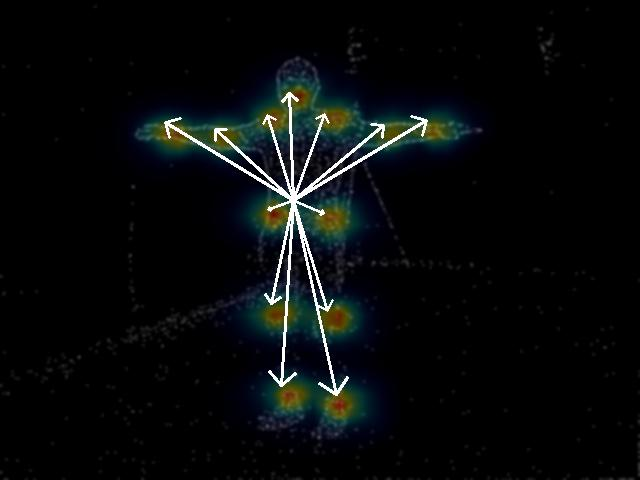
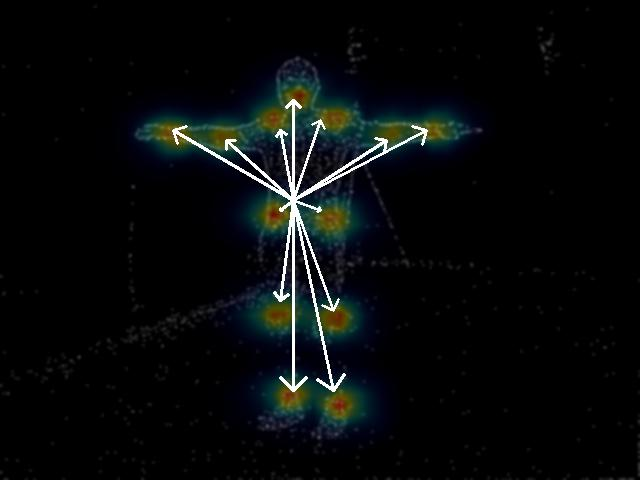
[refactor] refactor the code into smaller helper functions + add asserts to check input tensors size

Changed region(s): [[0.4062, 0.1875, 0.6875, 0.8438], [0.25, 0.25, 0.375, 0.3438], [0.375, 0.3438, 0.4062, 0.375]]

diff --git a/scripts/viz_heads_output.py b/scripts/viz_heads_output.py
@@ -16,8 +16,22 @@ from lib import MoveNet
 from config import cfg as default_cfg
 from pathlib import Path
 from lib.data.data import Data
+from typing import Iterable
+
+def assert_chw(t: torch.Tensor, name: str):
+    assert t.ndim == 3, f"{name} must be a CHW tensor, got {t.ndim} dims (shape {tuple(t.shape)})"
+    assert not t.is_cuda, f"{name} must be on the CPU"
+
+def assert_img(img: torch.Tensor):
+    assert_chw(img, "img")
+    assert img.is_floating_point(), f"img must be a float tensor in [0, 1], not {img.dtype}"
+    assert img.min() >= 0 and img.max() <= 1 + 1e-6, f"img values must be in [0, 1], got [{img.min()}, {img.max()}]"
+
+def assert_even_channels(t: torch.Tensor, name: str):
+    assert t.shape[0] % 2 == 0, f"{name} must have an even number of channels (x, y pairs), not {t.shape[0]}"
 
 def draw_vector(img: torch.Tensor, start_xy, end_xy, color=(255, 255, 255), thickness=1) -> torch.Tensor:
+    assert_img(img)
     canvas = np.ascontiguousarray((img.permute(1, 2, 0).numpy() * 255).astype(np.uint8))  # CHW [0,1] -> HWC uint8
     pt1 = (int(start_xy[0]), int(start_xy[1]))
     pt2 = (int(end_xy[0]), int(end_xy[1]))
@@ -29,7 +43,26 @@ def get_center_pixel_xy(center: torch.Tensor) -> tuple[torch.Tensor, torch.Tenso
     center_x = center.max(dim=-2).values.argmax()
     return center_x, center_y
 
+def get_raw_keypoints_xy(center: torch.Tensor, keypoints_regression: torch.Tensor) -> Iterable[tuple[torch.Tensor, torch.Tensor]]:
+    cx, cy = get_center_pixel_xy(center)
+    keypoints_iterator = zip(keypoints_regression[::2, cy, cx], keypoints_regression[1::2, cy, cx])
+    return keypoints_iterator
+
+def get_absolute_keypoints_xy(center: torch.Tensor, keypoints_regression: torch.Tensor) -> Iterable[tuple[torch.Tensor, torch.Tensor]]:
+    assert center.shape[-2:] == keypoints_regression.shape[-2:], f"Center and keypoints regression tensors must have the same (H, W) shape, not {center.shape[-2:]} and {keypoints_regression.shape[-2:]}"
+    cx, cy = get_center_pixel_xy(center)
+    keypoints = get_raw_keypoints_xy(center, keypoints_regression)
+    for kpt_x, kpt_y in keypoints:
+        kpt_x, kpt_y = cx + int(kpt_x+0.5), cy + int(kpt_y+0.5)  # computing absolute kpt position, rounding towards zero
+        kpt_x = torch.min(torch.max(torch.tensor(0), kpt_x), torch.tensor(center.shape[-1]-1))  # clamping
+        kpt_y = torch.min(torch.max(torch.tensor(0), kpt_y), torch.tensor(center.shape[-2]-1))
+        yield kpt_x, kpt_y
+
 def superimpose_heatmap(img: torch.Tensor, heatmap: torch.Tensor, alpha: float = 0.5) -> torch.Tensor:
+    assert_img(img)
+    assert_chw(heatmap, "heatmap")
+    assert heatmap.min() >= 0 and heatmap.max() <= 1, f"heatmap values must be in [0, 1], got [{heatmap.min()}, {heatmap.max()}]"
+
     hm_one_channel = heatmap.amax(0, keepdim=True)
     hm_resized = F.interpolate(hm_one_channel.unsqueeze(0), size=(img.shape[-2], img.shape[-1]), mode='bilinear', align_corners=False)[0, 0]
     hm_u8 = (hm_resized*255).byte().numpy()
@@ -40,6 +73,10 @@ def superimpose_heatmap(img: torch.Tensor, heatmap: torch.Tensor, alpha: float =
     return (1-blending_mask) * img + blending_mask * hm_colormapped
 
 def superimpose_center_dot(img: torch.Tensor, center: torch.Tensor) -> torch.Tensor:
+    assert_img(img)
+    assert_chw(center, "center")
+    assert center.shape[0] == 1, f"Center tensor must have 1 channel, not {center.shape[0]}"
+
     center_x, center_y = get_center_pixel_xy(center)
     H, W = img.shape[-2:]
     center_dot_overlay = torch.zeros((H, W), dtype=torch.bool)
@@ -62,18 +99,24 @@ def superimpose_center(img: torch.Tensor, center: torch.Tensor, alpha: float = 0
     return out
 
 def superimpose_regression(img: torch.Tensor, center: torch.Tensor, keypoints_regression: torch.Tensor) -> torch.Tensor:
-    center_x, center_y = get_center_pixel_xy(center)
-    keypoints = keypoints_regression[:, center_y, center_x]
+    assert_img(img)
+    assert_chw(center, "center")
+    assert_chw(keypoints_regression, "keypoints_regression")
+    assert_even_channels(keypoints_regression, "keypoints_regression")
+    assert center.shape[0] == 1, f"Center tensor must have 1 channel, not {center.shape[0]}"
+    assert center.shape[-2:] == keypoints_regression.shape[-2:], "Center and keypoints tensors (H, W) shape must be the same"
+
+    cx, cy = get_center_pixel_xy(center)
     
     scale_factor_y = img.shape[-2] / center.shape[-2]
     scale_factor_x = img.shape[-1] / center.shape[-1]
-    scaled_center_y = int(center_y * scale_factor_y)
-    scaled_center_x = int(center_x * scale_factor_x)
+    scaled_center_y = cy * scale_factor_y
+    scaled_center_x = cx * scale_factor_x
 
     out = img.clone()
-    for kpt_x, kpt_y in zip(keypoints[::2], keypoints[1::2]):
-        scaled_kpt_y = int((kpt_y+center_y) * scale_factor_y)
-        scaled_kpt_x = int((kpt_x+center_x) * scale_factor_x)
+    for kpt_x, kpt_y in get_absolute_keypoints_xy(center, keypoints_regression):
+        scaled_kpt_y = kpt_y * scale_factor_y
+        scaled_kpt_x = kpt_x * scale_factor_x
         out = draw_vector(out, (scaled_center_x, scaled_center_y), (scaled_kpt_x, scaled_kpt_y), thickness=2)
     return out
 
@@ -82,27 +125,42 @@ def superimpose_hm_reg(img: torch.Tensor, center: torch.Tensor, keypoints_regres
     out = superimpose_regression(out, center, keypoints_regression)
     return out
 
-def superimpose_hm_reg_score(img: torch.Tensor, center: torch.Tensor, keypoints_regression: torch.Tensor, heatmap: torch.Tensor, alpha: float = 0.5) -> torch.Tensor:
-    joints_num = heatmap.shape[0]
-    for joint_idx in range(joints_num):
-        pass
+# def superimpose_hm_reg_score(img: torch.Tensor, center: torch.Tensor, keypoints_regression: torch.Tensor, heatmap: torch.Tensor, alpha: float = 0.5) -> torch.Tensor:
+#     assert_img(img)
+#     assert_chw(center, "center")
+#     assert_chw(keypoints_regression, "keypoints_regression")
+#     assert_chw(heatmap, "heatmap")
+#     assert_even_channels(keypoints_regression, "keypoints_regression")
+#     assert center.shape[0] == 1, f"Center tensor must have 1 channel, not {center.shape[0]}"
+#     assert keypoints_regression.shape[0] == heatmap.shape[0]*2, f"Keypoints regression must have twice the channels of the heatmap, instead of {keypoints_regression.shape[0]} and {heatmap.shape[0]}"
+#     assert center.shape[-2:] == keypoints_regression.shape[-2:] == heatmap.shape[-2:], "Center, regressions, and heatmap tensors (H, W) shape must be the same"
+    
+#     joints_num = heatmap.shape[0]
+#     score_heatmap = heatmap.clone()
+#     center_x, center_y = get_center_pixel_xy(center)
+
+#     for joint_idx in range(joints_num):
+
+#         score_heatmap[joint_idx] /= torch.sqrt( (keypoints_regression[joint_idx])**2 + ()**2 ) + 1.8
 
 def superimpose_offset(img: torch.Tensor, center: torch.Tensor, keypoints_regression: torch.Tensor, offset: torch.Tensor, viz_scale: float = 1) -> torch.Tensor:
-    center_x, center_y = get_center_pixel_xy(center)
-    keypoints = keypoints_regression[:, center_y, center_x]
+    assert_img(img)
+    assert_chw(center, "center")
+    assert_chw(keypoints_regression, "keypoints_regression")
+    assert_chw(offset, "offset")
+    assert_even_channels(keypoints_regression, "keypoints_regression")
+    assert center.shape[0] == 1, f"Center tensor must have 1 channel, not {center.shape[0]}"
+    assert keypoints_regression.shape[0] == offset.shape[0], f"Keypoint regression tensor must have the same number of channels as the offset tensor, instead of {keypoints_regression.shape[0]} and {offset.shape[0]}"
+    assert center.shape[-2:] == keypoints_regression.shape[-2:] == offset.shape[-2:], "Center, keypoints, and offset tensors (H, W) shape must be the same"
 
-    assert center.shape[-2:] == offset.shape[-2:], "center and offset shape must be the same"
-    
     scale_factor_y = img.shape[-2] / center.shape[-2]
     scale_factor_x = img.shape[-1] / center.shape[-1]
 
     out = img.clone()
-    for idx, (kpt_x, kpt_y) in enumerate(zip(keypoints[::2], keypoints[1::2])):
-        kpt_x, kpt_y = center_x + int(kpt_x+0.5), center_y + int(kpt_y+0.5)  # computing absolute kpt position
-        kpt_x, kpt_y = min(max(0, kpt_x), offset.shape[-1]-1), min(max(0, kpt_y), offset.shape[-2]-1)  # clamping
+    for idx, (kpt_x, kpt_y) in enumerate(get_absolute_keypoints_xy(center, keypoints_regression)):
         offset_x, offset_y = offset[2*idx, kpt_y, kpt_x], offset[2*idx+1, kpt_y, kpt_x]
-        scaled_kpt_y = int(kpt_y * scale_factor_y)
-        scaled_kpt_x = int(kpt_x * scale_factor_x)
+        scaled_kpt_y = kpt_y * scale_factor_y
+        scaled_kpt_x = kpt_x * scale_factor_x
         scaled_offset_y = scaled_kpt_y + offset_y * scale_factor_y * viz_scale
         scaled_offset_x = scaled_kpt_x + offset_x * scale_factor_x * viz_scale
         out = draw_vector(out, (scaled_kpt_x, scaled_kpt_y), (scaled_offset_x, scaled_offset_y), thickness=2)
@@ -145,9 +203,8 @@ def main():
 
         heatmap0, center0, regression0, offset0 = heatmaps[0].cpu(), centers[0].cpu(), regressions[0].cpu(), offsets[0].cpu()
 
-        # batch0 = batch0.cpu()
-        # img0 = batch0[0] / 255  # [0, 255] -> [0, 1]
-        img0 = torchvision.io.read_image(batch0_path[0]) / 255
+        # Read the full-size original image
+        img0 = torchvision.io.read_image(batch0_path[0]) / 255  # [0, 255] -> [0, 1]
         save_image(img0, args.output_dir / 'input_img.jpg')
         save_image(superimpose_heatmap(img0, heatmap0), args.output_dir / 'heatmap.jpg')
         save_image(superimpose_center(img0, center0), args.output_dir / 'center.jpg')
